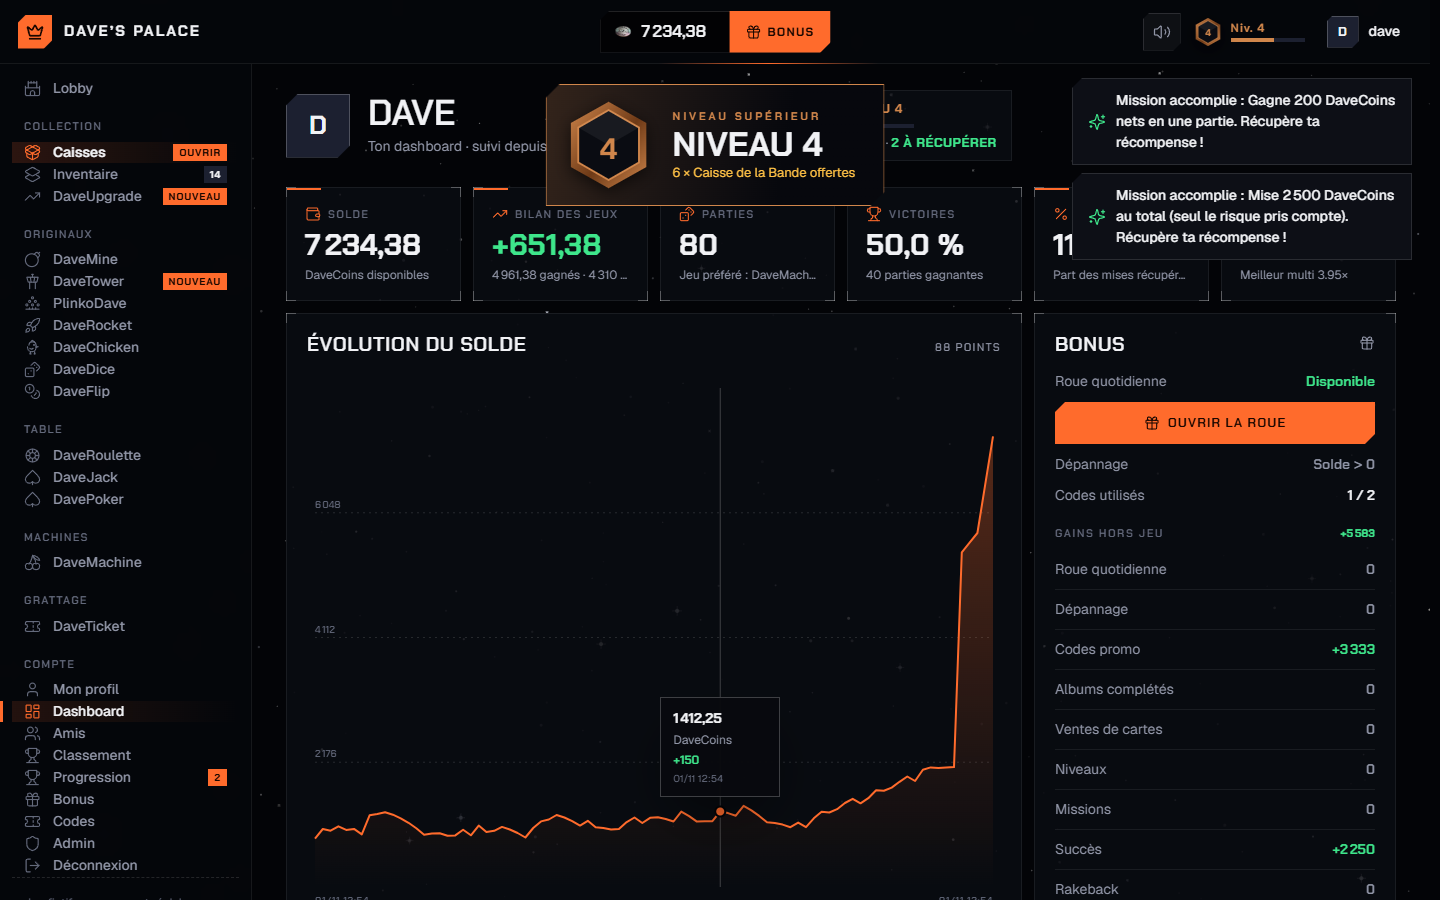
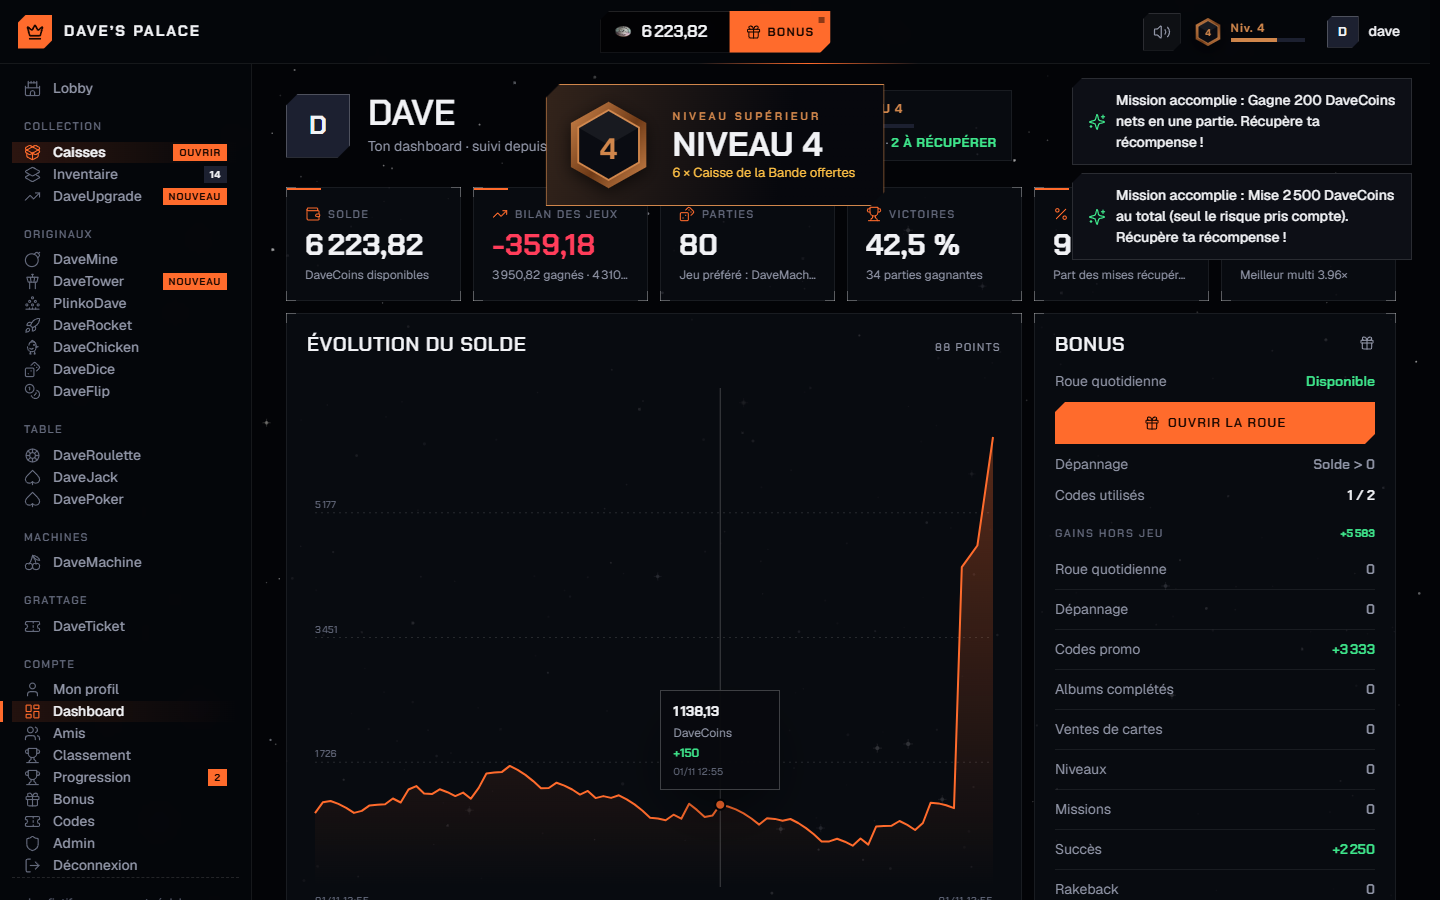
Fusion : une brillante vaut ×5 (le prix de la fusion) au lieu de ×7, qui permettait de créer des DaveCoins à l'infini

diff --git a/index.html b/index.html
@@ -10,7 +10,7 @@
   <link rel="preconnect" href="https://fonts.googleapis.com">
   <link rel="preconnect" href="https://fonts.gstatic.com" crossorigin>
   <link href="https://fonts.googleapis.com/css2?family=Chakra+Petch:wght@500;600;700&family=Geist:wght@400;500;600;700&display=swap" rel="stylesheet">
-  <link rel="stylesheet" href="css/main.css?v=20261101j">
+  <link rel="stylesheet" href="css/main.css?v=20261101k">
   <link rel="stylesheet" href="css/games.css">
   <link rel="stylesheet" href="css/intro.css">
 </head>
@@ -18,41 +18,41 @@
   <div id="app"></div>
   <noscript>Dave’s Palace a besoin de JavaScript pour fonctionner.</noscript>
 
-  <script src="js/space.js?v=20261101j"></script>
-  <script src="js/planet.js?v=20261101j"></script>
-  <script src="js/icons.js?v=20261101j"></script>
-  <script src="js/core.js?v=20261101j"></script>
-  <script src="js/cardframe.js?v=20261101j"></script>
-  <script src="js/music.js?v=20261101j"></script>
+  <script src="js/space.js?v=20261101k"></script>
+  <script src="js/planet.js?v=20261101k"></script>
+  <script src="js/icons.js?v=20261101k"></script>
+  <script src="js/core.js?v=20261101k"></script>
+  <script src="js/cardframe.js?v=20261101k"></script>
+  <script src="js/music.js?v=20261101k"></script>
   <!-- L'ordre des jeux ici = l'ordre dans le lobby -->
-  <script src="js/poker-eval.js?v=20261101j"></script>
-  <script src="js/games/slot-engine.js?v=20261101j"></script>
-  <script src="js/games/slot-bg.js?v=20261101j"></script>
-  <script src="js/games/machine.js?v=20261101j"></script>
-  <script src="js/games/scratch.js?v=20261101j"></script>
-  <script src="js/games/cases.js?v=20261101j"></script>
-  <script src="js/games/upgrade.js?v=20261101j"></script>
-  <script src="js/games/mines.js?v=20261101j"></script>
-  <script src="js/games/tower.js?v=20261101j"></script>
-  <script src="js/games/plinko.js?v=20261101j"></script>
-  <script src="js/games/rocket.js?v=20261101j"></script>
-  <script src="js/games/roulette.js?v=20261101j"></script>
-  <script src="js/games/blackjack.js?v=20261101j"></script>
-  <script src="js/games/poker.js?v=20261101j"></script>
-  <script src="js/games/chicken.js?v=20261101j"></script>
-  <script src="js/games/dice.js?v=20261101j"></script>
-  <script src="js/games/flip.js?v=20261101j"></script>
-  <script src="js/inspect.js?v=20261101j"></script>
-  <script src="js/motion.js?v=20261101j"></script>
+  <script src="js/poker-eval.js?v=20261101k"></script>
+  <script src="js/games/slot-engine.js?v=20261101k"></script>
+  <script src="js/games/slot-bg.js?v=20261101k"></script>
+  <script src="js/games/machine.js?v=20261101k"></script>
+  <script src="js/games/scratch.js?v=20261101k"></script>
+  <script src="js/games/cases.js?v=20261101k"></script>
+  <script src="js/games/upgrade.js?v=20261101k"></script>
+  <script src="js/games/mines.js?v=20261101k"></script>
+  <script src="js/games/tower.js?v=20261101k"></script>
+  <script src="js/games/plinko.js?v=20261101k"></script>
+  <script src="js/games/rocket.js?v=20261101k"></script>
+  <script src="js/games/roulette.js?v=20261101k"></script>
+  <script src="js/games/blackjack.js?v=20261101k"></script>
+  <script src="js/games/poker.js?v=20261101k"></script>
+  <script src="js/games/chicken.js?v=20261101k"></script>
+  <script src="js/games/dice.js?v=20261101k"></script>
+  <script src="js/games/flip.js?v=20261101k"></script>
+  <script src="js/inspect.js?v=20261101k"></script>
+  <script src="js/motion.js?v=20261101k"></script>
   <script src="https://cdn.jsdelivr.net/npm/three@0.149.0/build/three.min.js"></script>
-  <script src="js/intro.js?v=20261101j"></script>
-  <script src="js/progress.js?v=20261101j"></script>
-  <script src="js/profile.js?v=20261101j"></script>
+  <script src="js/intro.js?v=20261101k"></script>
+  <script src="js/progress.js?v=20261101k"></script>
+  <script src="js/profile.js?v=20261101k"></script>
   <script src="https://cdn.jsdelivr.net/npm/@supabase/supabase-js@2.45.4/dist/umd/supabase.min.js"></script>
-  <script src="js/engine.js?v=20261101j"></script>
-  <script src="js/cloud.js?v=20261101j"></script>
-  <script src="js/social.js?v=20261101j"></script>
-  <script src="js/dashboard.js?v=20261101j"></script>
-  <script src="js/app.js?v=20261101j"></script>
+  <script src="js/engine.js?v=20261101k"></script>
+  <script src="js/cloud.js?v=20261101k"></script>
+  <script src="js/social.js?v=20261101k"></script>
+  <script src="js/dashboard.js?v=20261101k"></script>
+  <script src="js/app.js?v=20261101k"></script>
 </body>
 </html>

diff --git a/js/core.js b/js/core.js
@@ -980,7 +980,8 @@
    * L'inventaire stocke seulement le nombre d'exemplaires de chaque carte.
    */
   const cards = { byId: {}, sets: [] };
-  const SHINY_MULT = 7, FUSE_COST = 5;
+  // une brillante vaut exactement les 5 cartes fusionnées : la fusion ne crée pas de DaveCoins
+  const SHINY_MULT = 5, FUSE_COST = 5;
   const inventory = {
     SHINY_MULT, FUSE_COST,
     key() { return 'dp_inv_' + auth.current(); },
@@ -1020,7 +1021,7 @@
       inventory._save(d);
       return true;
     },
-    /** Fusion : 5 exemplaires identiques deviennent 1 carte brillante (valeur ×7). */
+    /** Fusion : 5 exemplaires identiques deviennent 1 carte brillante (valeur ×5). */
     fuse(id) {
       if (DP.engine && DP.engine.on) return false;
       const d = inventory._get();

diff --git a/js/games/upgrade.js b/js/games/upgrade.js
@@ -44,7 +44,7 @@
       <ul><li>Ta chance = <strong>95 % × ta mise ÷ valeur de la carte visée</strong>, jusqu’à 80 % maximum.</li>
       <li>L’aiguille tourne : si elle s’arrête dans la zone colorée, tu gagnes la carte visée.</li>
       <li>Sinon, les cartes et les DaveCoins misés sont perdus.</li>
-      <li>Les cartes brillantes comptent pour 7 fois leur valeur.</li></ul>`,
+      <li>Les cartes brillantes comptent pour 5 fois leur valeur.</li></ul>`,
     mount(root) {
       const { panel, stage } = ui.layout(root);
       const sel = new Map(); // clé → { card, shiny, n }
